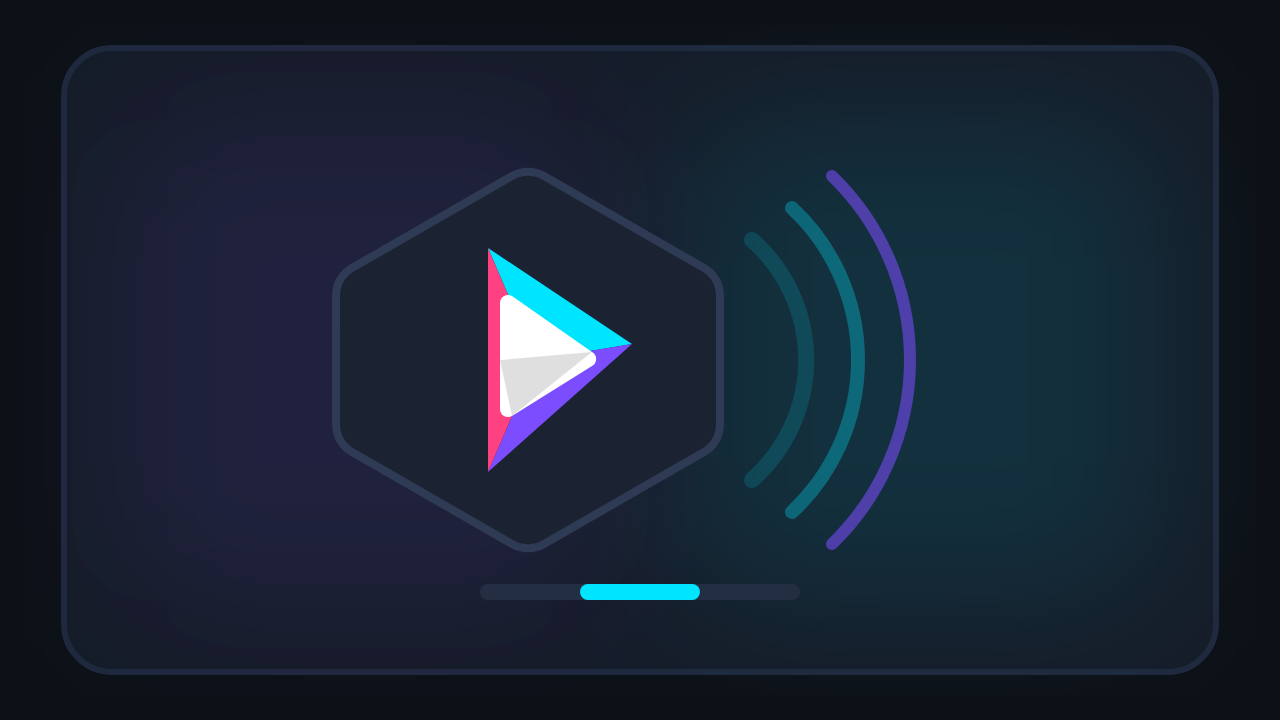
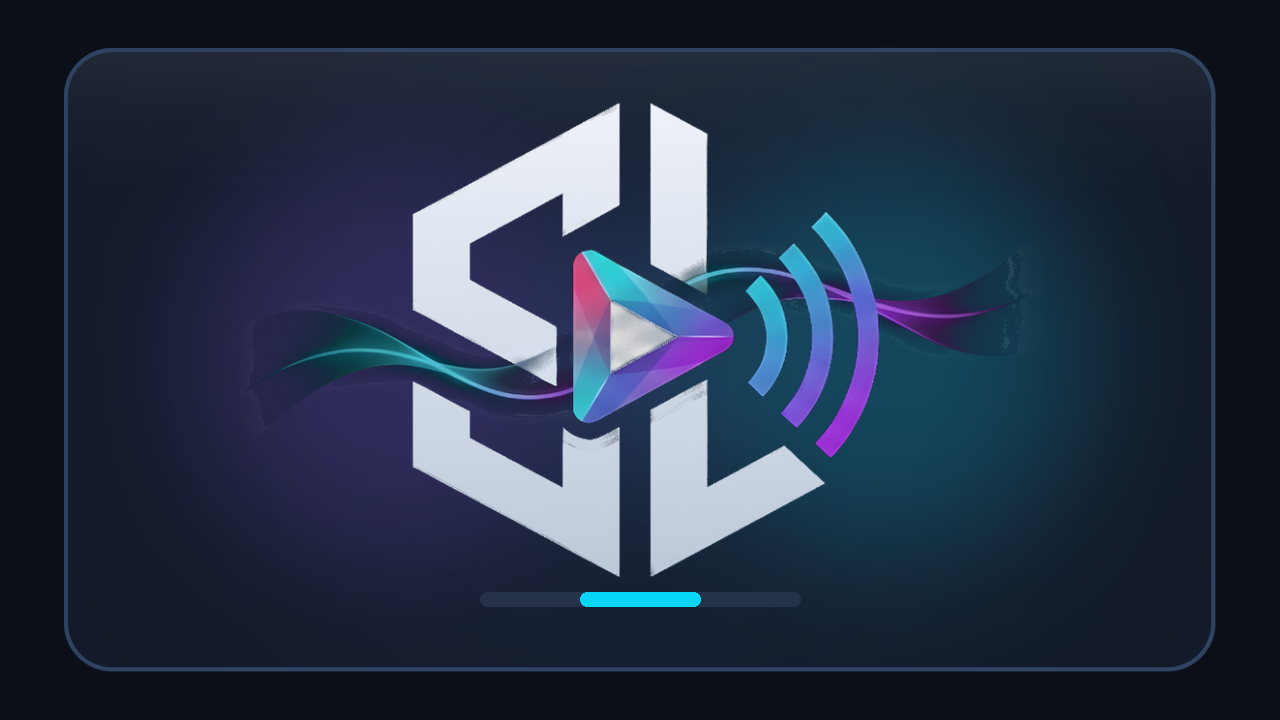
docs: update README, branding, and CHANGELOG for v4.4.1

diff --git a/README.md b/README.md
@@ -7,9 +7,9 @@
 </p>
 
 <p align="center">
-  <a href="https://github.com/raviprakashji/Streamer-launcher-release/releases/latest"><img alt="Version" src="https://img.shields.io/badge/Release-v4.4-blue?style=flat-square"></a>
+  <a href="https://github.com/raviprakashji/Streamer-launcher-release/releases/latest"><img alt="Version" src="https://img.shields.io/badge/Release-v4.4.1-blue?style=flat-square"></a>
   <img alt="Android 8.0+" src="https://img.shields.io/badge/Android-8.0%2B-3ddc84?style=flat-square">
-  <img alt="APK size" src="https://img.shields.io/badge/APK-4.5%20MB-success?style=flat-square">
+  <img alt="APK size" src="https://img.shields.io/badge/APK-5.1%20MB-success?style=flat-square">
   <img alt="Ad-Free" src="https://img.shields.io/badge/Ads-None-brightgreen?style=flat-square">
    <img alt="Total Downloads" src="https://img.shields.io/github/downloads/raviprakashji/Streamer-launcher-release/total?style=flat-square">
   <a href="LICENSE"><img alt="GPL-3.0 License" src="https://img.shields.io/badge/License-GPL--3.0-orange?style=flat-square"></a>
@@ -98,7 +98,7 @@ Home Screen Live Scores & Match Schedule |
   - Configurable home screen dimming during a selected time interval.
 - **Built-in File Manager & LocalSend v2**:
   - TV-friendly file manager designed for remote D-pad navigation with pure-Kotlin **exFAT / FAT32** USB Mass Storage OTG support and in-app image previews.
-  - LocalSend v2 built in for local wireless file transfers.
+  - LocalSend v2 built in with dual HTTP/HTTPS server support, Ethernet/multicast peer discovery, and MediaStore fallback for local wireless transfers.
   - Open LocalSend directly from the File Manager to send and receive files between devices.
 - **Streamer Controls & Couch Curfew Parental Controls**:
   - Built-in **Streamer Controls** workspace featuring **Control Hub** (live RAM, network RX delta, speed burst test, and system telemetry updating every 3 seconds), **Running Tasks** (`totalPSS` memory breakdown and background task cleanup), **Quick Presets**, **Activity Explorer**, **My Shortcuts**, and **App Compiler** with Local ADB (`LADB`) elevation.
@@ -136,10 +136,10 @@ Home Screen Live Scores & Match Schedule |
 - **Hardware HDMI & AV Input Switcher**:
   - Select supported HDMI and AV inputs directly from the launcher.
 - **Hardware Remote Button Remapper & Universal Floating Overlays**:
-  - Remap supported TV remote buttons with zero-latency, sub-microsecond $O(1)$ key lookup and dynamic accessibility filtering bypass.
-  - Add custom aliases to make buttons easier to identify.
+  - Remap supported TV remote buttons with zero-latency, sub-microsecond $O(1)$ key lookup and fail-open dynamic accessibility key filtering.
+  - Add custom aliases to make buttons easier to identify, or bind **My Shortcuts** directly in the remapper.
   - Configure independent single-press, double-press, and long-press actions.
-  - **Works Anywhere Floating Overlays**: Launch Quick Settings, Live Cricket Scores, full LocalSend file transfer, Music HUD, Streamer Settings, or App Dock directly over any running app or video player (YouTube, Netflix, etc.) without leaving your content or interrupting playback.
+  - **Works Anywhere Floating Overlays**: Launch **All Apps** (`AllAppsOverlay`), **Streamer Controls** (`StreamerControlsOverlay`), Quick Settings, Live Cricket Scores, full LocalSend file transfer, Music HUD, Streamer Settings, or App Dock directly over any running app or video player (YouTube, Netflix, etc.) without leaving your content or interrupting playback.
   - **Categorized Actions**: Streamer features cleanly organized into **Works anywhere** and **Works from homescreen** sections.
 - **MDBList & Phone QR Setup**:
   - Connect using your personal MDBList API key and add private, dynamic, or static lists with automatic personal list syncing.
@@ -232,7 +232,7 @@ Streamer Launcher is strictly engineered for low-memory, entry-level Android TV 
 
 ### Option 1: Direct APK Download
 Download the latest pre-compiled release from the [Releases Page](https://github.com/raviprakashji/Streamer-launcher-release/releases/latest) (see [CHANGELOG.md](CHANGELOG.md) for release notes):
-- **Streamer.launcher_v4.4.apk** (4.5 MB)
+- **Streamer.launcher_v4.4.1.apk** (5.1 MB)
 
 ### Option 2: Install via ADB
 ```bash
@@ -240,7 +240,7 @@ Download the latest pre-compiled release from the [Releases Page](https://github
 adb connect <your-tv-ip>:5555
 
 # 2. Install the APK
-adb install -r "Streamer.launcher_v4.4.apk"
+adb install -r "Streamer.launcher_v4.4.1.apk"
 ```
 
 ### Grant Secure Settings Permission (Required for Certain System-Level Features)

diff --git a/CHANGELOG.md b/CHANGELOG.md
@@ -1,3 +1,23 @@
+## [v4.4.1] - 2026-11-28
+### Added, Fixed & Enhanced (vs v4.4)
+- **Home Button Intercept & D-Pad Navigation Reliability**:
+  - Eliminated launcher blinks and stalls when pressing Home on non-default TV setups by pre-intercepting `KEYCODE_HOME` with cached default-Home awareness (`isStreamerDefaultHome()`) across `MainActivity` and external apps while keeping System Settings and Google TV system screens native.
+  - Added `120` ms Home redirect deduplication (`shouldSkipGoHomeCooldown`) and a `160`–`240` ms post-redirect verification pass (`verifyTvHomeRedirectRunnable`) for reliable return to Streamer Launcher.
+  - Added `130` ms sustained D-pad repeat throttling (`shouldThrottleDpadRepeat`) across the launcher and Streamer Controls dialogs, and fixed Quick Settings hold/click races (`650` ms hold threshold).
+- **TMDB Wallpaper "On Home Visit" Fix**:
+  - Fixed TMDB **"On home visit"** backdrop rotation not firing on Home button presses or external-app returns by triggering advancement from in-process Home handling, `dispatchKeyEvent(KEYCODE_HOME)`, and `onResume` with a `500` ms deduplication window.
+  - Stopped periodic background `wallpaperTick` scheduling when rotation interval is set to **On home visit** (`0`) to prevent unwanted timed rotations.
+- **Button Remapper & Floating Overlays**:
+  - Added **All Apps** (`AllAppsOverlay`) and **Streamer Controls** (`StreamerControlsOverlay`) universal floating overlays (`Works anywhere`), plus **My Shortcuts** integration directly inside the Button Remapper.
+  - Switched accessibility key filtering to fail open dynamically without static manifest key-event filtering flags, added post-update accessibility rebind waits (`450` ms), and synchronized Screensaver overlay key handling.
+  - Hardened `VideoWallpaper` playback recovery, extended USB/folder wallpaper scanning (`WallpaperFolderHelper`), fixed Row 5 label spacing in All Apps, and respected Home override opt-out in `HomeServiceHelper`.
+- **LocalSend v2 Dual-Stack Server & Discovery**:
+  - Added dual HTTP/HTTPS server support, improved Ethernet/multicast peer discovery, and MediaStore fallback for incoming transfers.
+- **Lightened SL on Obsidian Visual Identity**:
+  - Updated app icon, Android TV banner, Streamer Controls header/tile, Custom Shortcuts icon sync, and repository branding assets to the **Lightened SL on Obsidian** design.
+
+---
+
 ## [v4.4] - 2026-11-27
 ### Added, Fixed & Enhanced (vs v4.3)
 - **Fire TV / Fire OS Support & Alexa Play Overlay**:

diff --git a/docs/branding/README.md b/docs/branding/README.md
@@ -1,0 +1,24 @@
+# Streamer Launcher — Obsidian Branding Assets
+
+TV-calibrated **Lightened SL on Obsidian** brand asset suite generated from the metallic silver `"SL"` + prism Play + broadcast wave mark.
+
+## Palette & TV Contrast Calibration
+- **Outer / Ambient Canvas**: `#0B0F17` (deep obsidian)
+- **Inner Card Surface**: `#121927` → `#1B263B` radial fill with `#304262` rim and soft top specular gradient to preserve separation under TV HDMI limited-range black compression
+- **SL Monogram**: Cool metallic silver `#F4F8FF` → `#C2CFE0` vertical gradient
+- **Ambient Glow Accents**: Electric Violet `#8B5CF6` & Neon Cyan `#06D6F8`
+
+## Asset Inventory
+
+| Asset | Dimensions | Format | Intended GitHub / App Target |
+| :--- | :---: | :---: | :--- |
+| `github-header-banner.png` | `2125×575` | PNG RGBA | `docs/screenshots/github-header-banner.png` (`README.md` hero banner) |
+| `github-social-preview.png` | `1280×640` | PNG RGB | GitHub Repository → Settings → Social Preview |
+| `banner.png` | `1280×720` | PNG RGB | `docs/banner.png`, `docs/screenshots/streamer_banner.png`, or Android `drawable-nodpi` banner |
+| `banner-tv-xhdpi.png` | `640×360` | PNG RGB | Android TV `drawable-xhdpi/banner.png` (`320×180dp` @ `2×`) |
+| `icon.png` | `512×512` | PNG RGBA | `docs/icon.png` & `docs/screenshots/streamer_icon.png` |
+| `icon-1024.png` | `1024×1024` | PNG RGBA | High-resolution squircle icon / release showcase |
+| `icon-round-tv.png` | `512×512` | PNG RGBA | Google TV circular launcher preview (`66%` safe-zone fit) |
+| `adaptive-foreground.png` | `432×432` | PNG RGBA | Android `<adaptive-icon>` foreground (`108dp` @ `4×`, centered in `288px` safe zone) |
+| `adaptive-background.png` | `432×432` | PNG RGB | Android `<adaptive-icon>` background layer (`108dp` @ `4×`) |
+| `logo-silver-transparent.png` | `1024×1024` | PNG RGBA | Centered transparent silver `"SL"` mark for dark-mode docs and badges |
